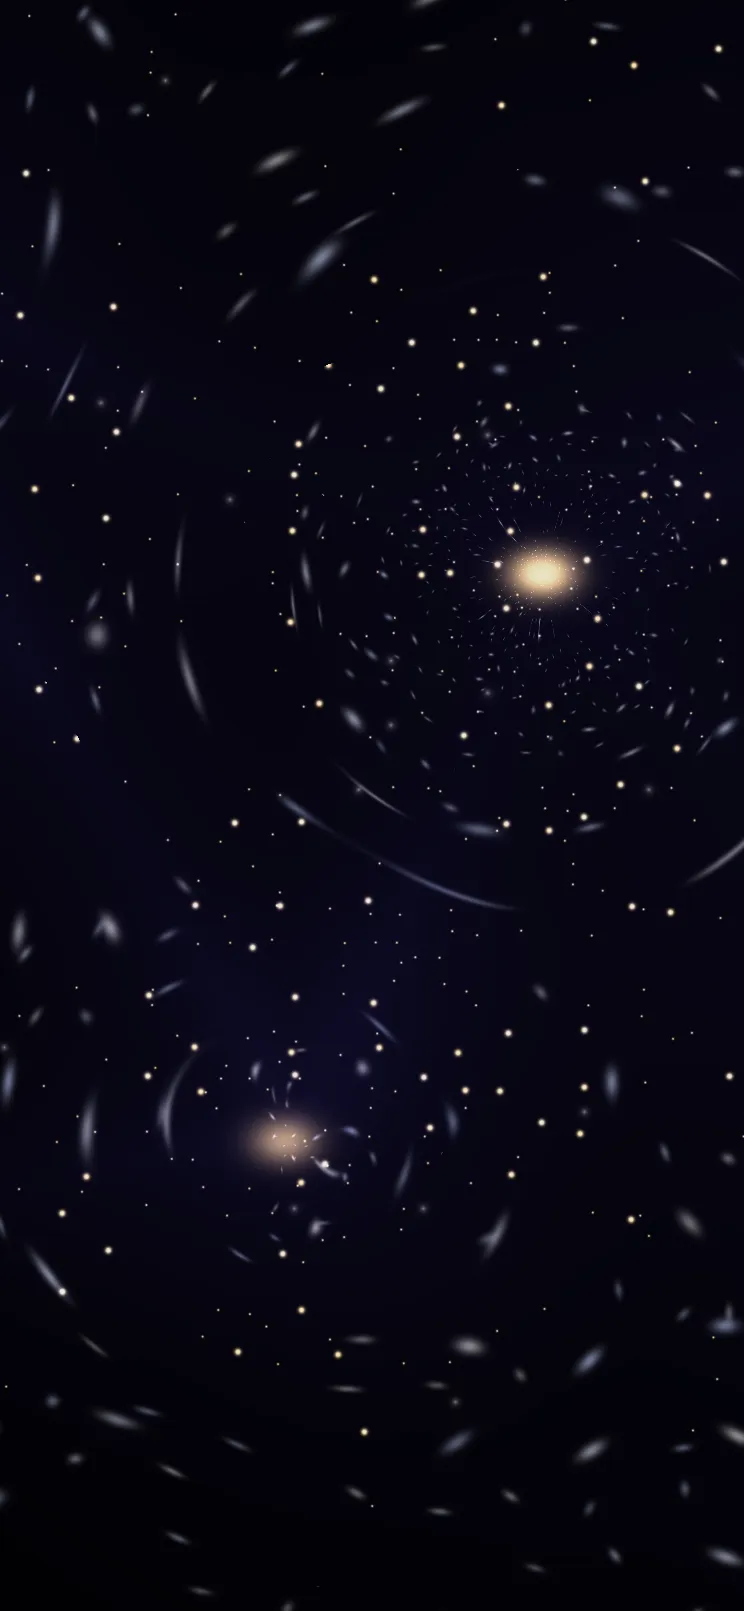
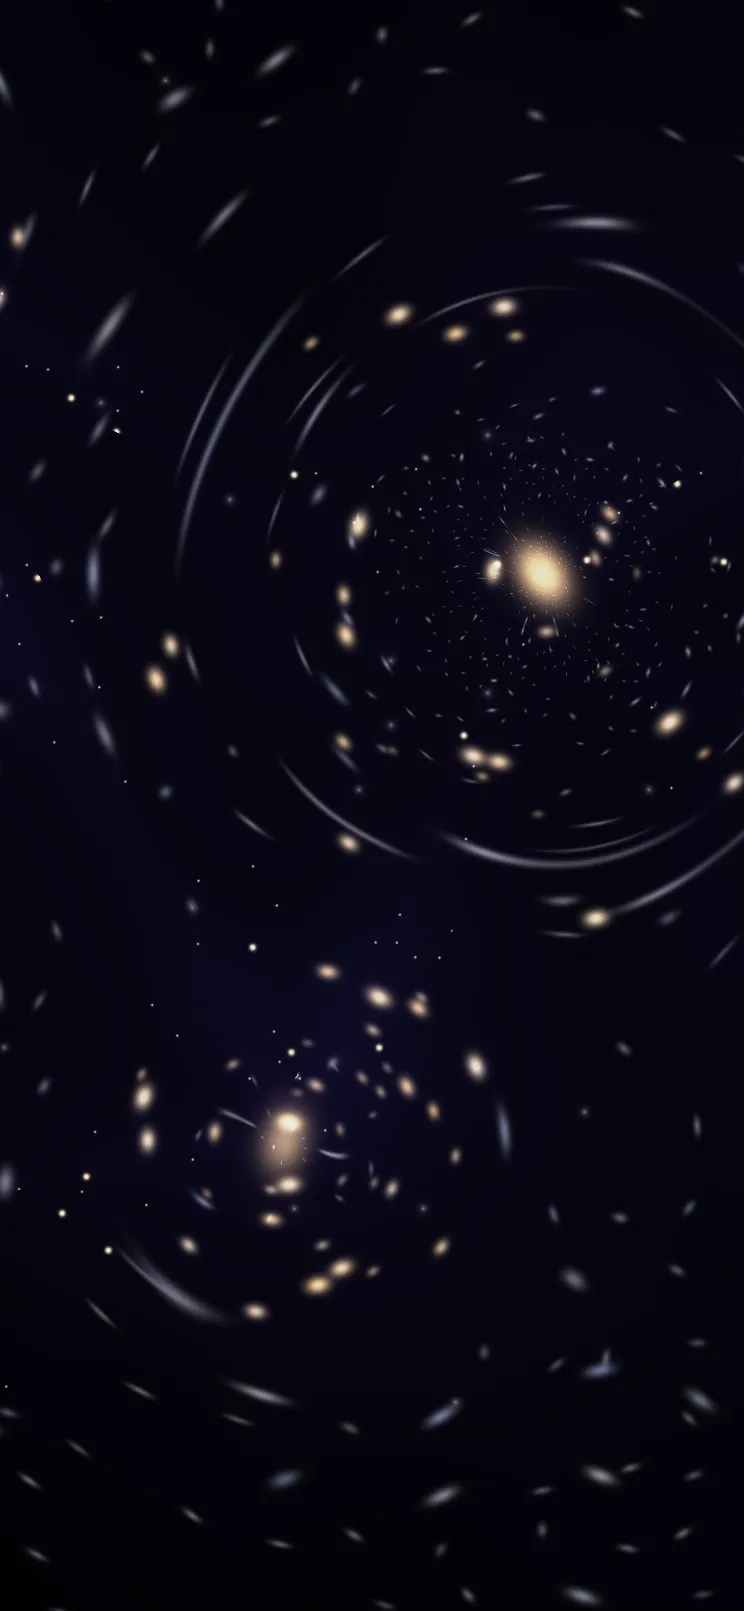
💫 feat: Set the Dark Matter Web's galaxies orbiting their unseen clumps

diff --git a/src/scene/scenes/dark-matter/index.tsx b/src/scene/scenes/dark-matter/index.tsx
@@ -3,8 +3,10 @@
  * light. The screen is nearly black. Far behind, a faint field of distant galaxies; in front, gold
  * galaxies gather in a few clusters and along the strands between them. The dark matter itself is
  * never lit: it shows only by what its gravity does, bending the far galaxies' light into thin arcs
- * round each unseen clump, and as a ghost of deep indigo that slowly swells and fades round the
- * clumps and strands, the only hint of how much is there. A drag looks round. One draw call, no
+ * round each unseen clump, and as a ghost of deep indigo that slowly swells, fades and turns round
+ * the clumps and strands, the only hint of how much is there. It moves (D-193): the far galaxies
+ * drift, so their arcs slide round the clumps; each clump's galaxies orbit its heart, the inner ones
+ * faster, neighbouring clumps turning opposite ways. A drag looks round. One draw call, no
  * particles. Its own colour family: near black, deep indigo and gold. Mounted by the host through
  * the registry; never imported by a page.
  */
@@ -90,6 +92,8 @@ void main(){
     float r2 = dot(d, d);
     src -= c.z * d / (r2 + 0.002);
   }
+  // the far galaxies drift slowly behind, so their bent light slides and flows round each clump
+  src += vec2(t * 0.008, t * 0.003);
   vec3 col = farField(src, 11.0, 1.0) + farField(src, 19.0, 5.0) * 0.7;
   // a few faint stars of our own galaxy, unbent, so the dark is not empty
   vec2 sg = u * 40.0;
@@ -106,16 +110,20 @@ void main(){
   float halo = 0.0;
   for (int i = 0; i < 5; i++) {
     vec3 c = clump(i);
-    halo += exp(-length(wu - c.xy) / (1.6 * sqrt(c.z))) * (0.5 + 10.0 * c.z);
+    vec2 d = wu - c.xy;
+    // each clump's ghost turns slowly, some one way, some the other
+    float fi = float(i);
+    float a = t * (0.12 + 0.03 * fi) * (mod(fi, 2.0) < 0.5 ? 1.0 : -1.0);
+    vec2 rd = vec2(cos(a) * d.x - sin(a) * d.y, sin(a) * d.x + cos(a) * d.y);
+    float swirl = fbm3(vec3(rd * 5.0, fi * 3.0));
+    halo += exp(-length(d) / (1.6 * sqrt(c.z))) * (0.5 + 10.0 * c.z) * (0.45 + 1.1 * swirl);
   }
   float lump = fbm3(vec3(u * 3.0, t * 0.02));
   col += INDIGO * (strand * 0.12 + halo * 0.16) * (0.5 + 0.8 * lump) * breath;
 
   // ---- the galaxies we can see: gold, gathered in the clumps and strung along the strands ----
   // where the galaxies live: close in round each clump, and thinly along the strands
-  float home = 0.0;
-  for (int i = 0; i < 5; i++) home += exp(-length(u - clump(i).xy) / (0.7 * sqrt(clump(i).z)));
-  home = clamp(home + exp(-sd / 0.03) * 0.5 * broken, 0.0, 1.0);
+  float home = clamp(exp(-sd / 0.03) * 0.5 * broken, 0.0, 1.0);
   for (int k = 0; k < 2; k++) {
     float fk = float(k);
     vec2 g = u * (30.0 + fk * 22.0);
@@ -125,11 +133,33 @@ void main(){
     float keep = step(1.0 - home * 0.55, hash2(gi + 7.7 + fk).x);
     col += mix(GOLD, WHITE, go.y * 0.5) * exp(-dot(d, d) * (220.0 + fk * 260.0)) * keep * (1.4 - fk * 0.5);
   }
-  // each clump's brightest galaxy, a soft gold oval at its heart
+  // in each clump, galaxies orbit its heart, the inner ones faster; its brightest galaxy, a soft
+  // gold oval at the heart, turns slowly
   for (int i = 0; i < 5; i++) {
     vec3 c = clump(i);
     vec2 d = u - c.xy;
-    col += GOLD * exp(-(d.x * d.x / 0.0006 + d.y * d.y / 0.0003)) * (0.5 + 12.0 * c.z);
+    float fi = float(i);
+    float R = 1.3 * sqrt(c.z);
+    if (length(d) < R * 1.3) {
+      for (int j = 0; j < 36; j++) {
+        float fj = float(j);
+        vec2 h = hash2(vec2(fi * 31.0 + fj, fi + fj * 0.37));
+        vec2 h2 = hash2(vec2(fj * 5.1 + 2.0, fi * 7.7));
+        float rad = R * (0.12 + 0.88 * pow(h.x, 0.8));
+        float spin = (mod(fi, 2.0) < 0.5 ? 1.0 : -1.0) * 0.05 / sqrt(rad);
+        float ang = h.y * TAU + t * spin;
+        vec2 gp = vec2(cos(ang), sin(ang)) * rad * vec2(1.0, 0.75 + 0.25 * h2.x);
+        vec2 e = d - gp;
+        // a small oval, lying along its orbit
+        vec2 along = vec2(-sin(ang), cos(ang));
+        float ea = dot(e, along), er = dot(e, vec2(along.y, -along.x));
+        float size = 0.000008 + 0.00003 * h2.y * h2.y;
+        col += mix(GOLD, WHITE, h2.x * 0.5) * exp(-(ea * ea / (size * 2.2) + er * er / size)) * (0.3 + 0.8 * h2.y);
+      }
+    }
+    float a = t * 0.08 * (mod(fi, 2.0) < 0.5 ? 1.0 : -1.0) + fi;
+    vec2 bd = vec2(cos(a) * d.x - sin(a) * d.y, sin(a) * d.x + cos(a) * d.y);
+    col += GOLD * exp(-(bd.x * bd.x / 0.0006 + bd.y * bd.y / 0.0003)) * (0.5 + 12.0 * c.z);
   }
 
   col = col / (1.0 + max(col - 0.85, 0.0) * 0.9);

diff --git a/src/lib/sound.ts b/src/lib/sound.ts
@@ -51,7 +51,7 @@ const TRACKS: Record<string, string> = {
   // the owner's swap (D-188): the cosmic web plays the supervoid's loop, and the supervoid the web's
   web: "/api/music/supervoid",
   supervoid: "/api/music/web",
-  // no loop of its own yet (D-192): the pocket universe carries on with its doorway's
+  // the pocket universe shares its doorway's loop (D-192, the owner's choice in D-193)
   "pocket-universe": "/api/music/pocket-dimensions",
 };
 /** The cookie that carries the owner's music key to `/api/music/` (the same name in its route). */

diff --git a/context/DECISIONS.md b/context/DECISIONS.md
@@ -289,3 +289,4 @@ The owner clicked through S1: "Much better", then asked for the changes below, w
 | D-190 | **Into the smallest: a cell down to strings (owner, grilled, 2026-11-24).** The Starbase's Quarks and String Theory bays go; one new bay, A Human Cell (nine bays). From it a chain of places, each inside the last (D-132), each dived into through a body of the one above: **A Human Cell** (`human-cell`: rose membrane, violet nucleus, amber mitochondria, ER folds, vesicles; body `dna` at the nucleus) → **DNA** (`dna`: a turning double helix of beads, base pairs coloured A–T and G–C; body `atom`, a gold backbone atom) → **A Carbon Atom** (`carbon-atom`: quantum clouds, 1s, 2s with its node, carbon's two occupied 2p orbitals with their two phases in two colours; no orbits; body `nucleus`) → **Its Nucleus** (`carbon-nucleus`: six protons and six neutrons at an icosahedron's corners, jostling in a warm strong-force haze; body `quarks`, one proton) → **Quarks** (now inside the nucleus; its junction is a new body `stringtheory`) → **String Theory** (now inside Quarks). The menu keeps the whole chain in the Starbase's group. Lines, each checked on the live page 2026-11-24: "Life's basic building block; an adult holds 10 to 100 trillion." (NHGRI Cell: "A cell is the basic building block of living things."; "between 10 and 100 trillion cells"); "A double helix carrying the genetic information to build and run you." (NHGRI DNA: "carries genetic information for the development and functioning of an organism"; "a shape known as a double helix"); "A cloud of electrons round a nucleus under 0.01% of its volume." (DOE Electrons: "electrons surround nuclei in a cloud divided into shells"; DOE Nuclei: "less than .01% of the volume of the atom"); "Six protons and six neutrons, held together by the strong force." (DOE Protons: "carbon has six protons and six neutrons"; DOE Strong Force: "holds protons and neutrons together to form atomic nuclei"). A guided flight, **Into the Smallest**: Starbase → cell → DNA → atom → nucleus → quarks → strings. Each new place has a Kurzgesagt video and its own Epic Mountain loop (Immune System 2, Impossible Machine, Atoms, Project Sundial). | The owner: "for starbase, add a cell, and then zoom through the levels combining atoms, quarks, string theory"; in the grilling: a chain of places, six levels, a human cell, a quantum-cloud atom, a guided flight. | One continuous zoom scene (a much bigger build, and it would redo Quarks and String Theory); an electron branch; classic Bohr orbits (outdated). |
 | D-191 | **Warp Drive redrawn as a machine (owner, 2026-11-24).** The scene now shows the drive itself, ray-marched: a long, slender gunmetal hull (needle nose to the right, a broad middle with amber windows, a rounded engine block at the stern, a blue beacon at the nose and a blinking red one at the stern) running through two great rings on four struts each. The rings are the drive: dark plated bands whose inner faces carry a channel of electric-blue light, pulses running round each ring in opposite directions, with a soft glow of field about them. The bubble stays, but quieter: the turbulent gas sheath is gone and only a faint lens marks the wall; outside, the sky still streams past, bunched and blue ahead, drawn into red streaks behind. Seen from ahead and to one side, lit from up and left by the galaxy's quasar. Same line, source and colour family. This supersedes D-153's "no ship is drawn" for this place, as the Generation Ship and Starbase already draw machines as the place itself. | The owner: "it doesn't look like technology, it looks like a warp bubble or something". | Keeping the bubble alone with more gas (still reads as a bubble); a full starship with nacelles (reads as fiction, and the rings are what makes a warp drive read as one). |
 | D-192 | **Programmable Matter faster, a way into Pocket Dimensions, a dark Dark Matter Web (owner, 2026-11-24).** (1) **Programmable Matter** holds each form for 6 s (was 14), each change about 3 s, and turns at 0.12 rad/s (was 0.05). (2) **The Pocket Universe** (`/pocket-universe`), a new place inside Pocket Dimensions: the bulb is a body (inner anchor `babyverse`) dived into. Inside, everything rushes outward from a gold heart, emerald threads of gas and young gold and white galaxies drawn out the way they fly, four layers of the pattern swelling sixteen-fold and handing over, so the inflation never ends. Line: "Once cut off from ours, it would inflate into a self-contained cosmos.", from the same arXiv paper (regions "which causally disconnect from us and inflate, becoming self-contained cosmoses", section 1; "the baby universe creating its own space, and causally disconnecting from the parent spacetime", section 4; read 2026-11-24). No loop of its own yet: it plays Pocket Dimensions'. The Pocket Dimensions scene itself is unchanged. (3) **The Dark Matter Web** keeps its place at the web but is redrawn: nearly black; a faint field of far galaxies whose light is bent into thin arcs round five unseen clumps (each clump's pull worked out per pixel); gold galaxies gathered round the clumps and thinly along the strands, a brighter oval at each heart; the dark matter itself only a faint deep-indigo ghost round the clumps and strands that slowly swells and fades. Colour family: near black, deep indigo and gold (was ghost teal). | The owner: "make programmable matter rotate faster between its states"; Pocket Dimensions "looks like wormhole which I guess is fine if it lead to the actual pocket dimension"; the dark matter scene "doesn't feel black", relocating allowed. | Redrawing the bulb (the owner was fine with it as a way in); moving Dark Matter into the spiral galaxy as its halo (the web is where it holds things together; the scene, not its place, was the problem); glowing filaments (they made it read bright). |
+| D-193 | **The Dark Matter Web moves; The Pocket Universe shares its music (owner, 2026-11-24).** (1) In each of the five clumps, 36 gold galaxies orbit its heart, each a small oval lying along its orbit, the inner ones faster (speed falls as one over the square root of the radius), neighbouring clumps turning opposite ways; each clump's brightest galaxy turns slowly; the indigo ghost round each clump turns with it; the far galaxies drift behind, so their bent arcs slide and flow round the clumps. Galaxies are placed per clump in polar terms, not on a grid, so nothing smears as it turns. (2) The Pocket Universe keeps the Pocket Dimensions loop for good; it needs no loop of its own. | The owner: "could you add movement to the dark matter objects, maybe some spin"; "the pocket universe can share the same music as the pocket dimension". | Turning the whole grid of galaxies round each clump (inner and outer rings at different speeds shear a grid into streaks). |

diff --git a/context/PROGRESS_TRACKER.md b/context/PROGRESS_TRACKER.md
@@ -81,7 +81,8 @@ Limits: draw calls on `low` under 30, scene chunks under 40 KB. Tests that need 
 
 - **2026-11-24 (into the smallest), D-190:** After a grilling: the Starbase's cell bay leads down a chain, A Human Cell → DNA → A Carbon Atom → Its Nucleus → Quarks → String Theory, each inside the last, each with a sourced line (NHGRI, DOE), a video and its own loop; a guided flight, Into the Smallest. 50 places. **Checked:** `npm run check`, `npm run build`, stills of the four new levels and the Starbase on laptop and phone, each page's links down and back up, the flight in the menu, posters and share images rendered.
 - **2026-11-24 (scene refinement), D-191:** Warp Drive redrawn as a machine: a slender hull through two glowing drive rings, the bubble reduced to a faint lens round it. **Checked:** `npm run check`, `npm run build`, `npm run shots -- warp` (laptop, phone, reduced motion), poster and share image re-rendered.
-- **2026-11-24 (scene refinement), D-192:** Programmable Matter changes shape every 6 s (was 14) and turns faster; Pocket Dimensions' bulb now leads into a new place, The Pocket Universe (an endlessly inflating emerald and gold cosmos, sourced to the same arXiv paper; it plays the Pocket Dimensions loop until it has its own); The Dark Matter Web redrawn nearly black, the dark matter seen only by far galaxies' light bent into arcs round unseen clumps and a faint indigo ghost. 51 places. **Checked:** `npm run check`, `npm run build`, `npm run shots` for the four routes (laptop, phone, reduced motion), posters and share images rendered. **Open:** a music loop of its own for The Pocket Universe.
+- **2026-11-24 (scene refinement), D-192:** Programmable Matter changes shape every 6 s (was 14) and turns faster; Pocket Dimensions' bulb now leads into a new place, The Pocket Universe (an endlessly inflating emerald and gold cosmos, sourced to the same arXiv paper; it plays the Pocket Dimensions loop until it has its own); The Dark Matter Web redrawn nearly black, the dark matter seen only by far galaxies' light bent into arcs round unseen clumps and a faint indigo ghost. 51 places. **Checked:** `npm run check`, `npm run build`, `npm run shots` for the four routes (laptop, phone, reduced motion), posters and share images rendered. The owner chose to keep The Pocket Universe on the Pocket Dimensions loop (D-193).
+- **2026-11-24 (scene refinement), D-193:** The Dark Matter Web moves: each clump's gold galaxies orbit its heart (inner ones faster, neighbours turning opposite ways), the brightest galaxy and the indigo ghost turn, and the far galaxies drift so their arcs slide round the clumps. **Checked:** `npm run build`, `npm run shots -- dark-matter`, two frames 30 s apart compared, poster and share image re-rendered.
 - **2026-11-24 (new place, probes), D-189:** The Last Civilization (a hibernating civilization round a dim white dwarf, in A Quasar Galaxy, with its own loop) and a redrawn Von Neumann Probes (a binary tree of self-copying probes eating a belt). 46 places. **Checked:** `npm run check`, `npm run build`, stills of both (awake and asleep; mid-tree and leaving) on laptop and phone, the new hotspot's place in the Quasar Galaxy, posters and share images rendered.
 - **2026-11-24 (small fixes), D-188:** Larger play icon; a drag turns every universe in the Multiverse; glass tooltips (`data-tip`) on the video and Sound buttons; the web and supervoid swap music. **Checked:** `npm run check`; live in Chrome: the Multiverse before and after a drag, both tooltips on hover.
 - **2026-11-24 (the ending), D-187:** Zoom Out past the Omniverse is now a cinematic ending: fade to black, the two lines rise out of a blur one after the other, then Return. The music key is read under `Music` or `MUSIC_KEY`. **Checked:** `npm run check`; live in Chrome: the ending at several moments, Return closes it, the Omniverse loop loads with the key under `MUSIC_KEY`.
